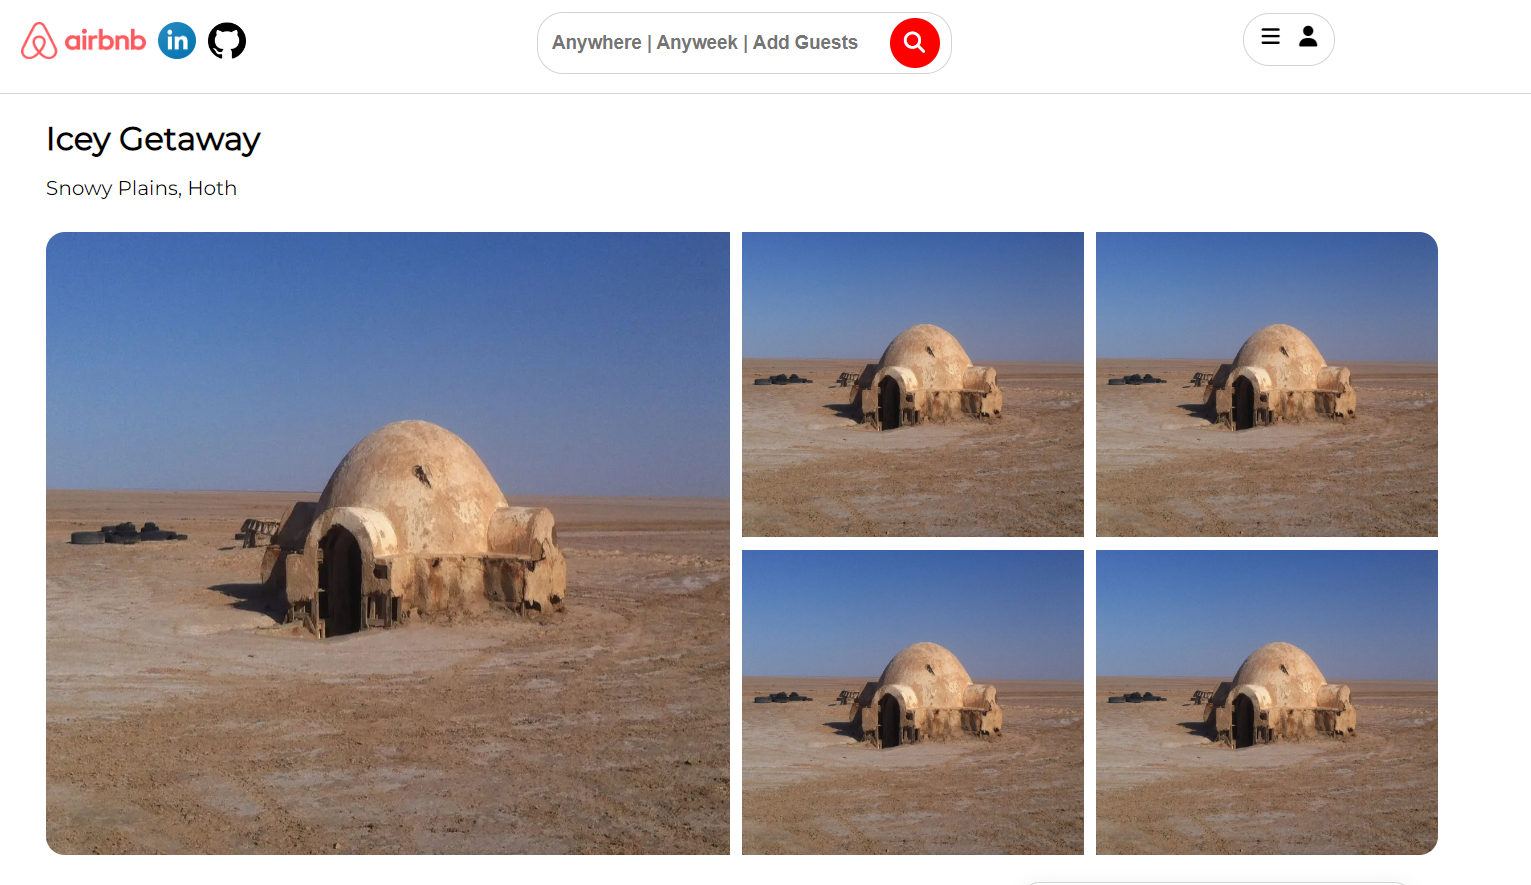
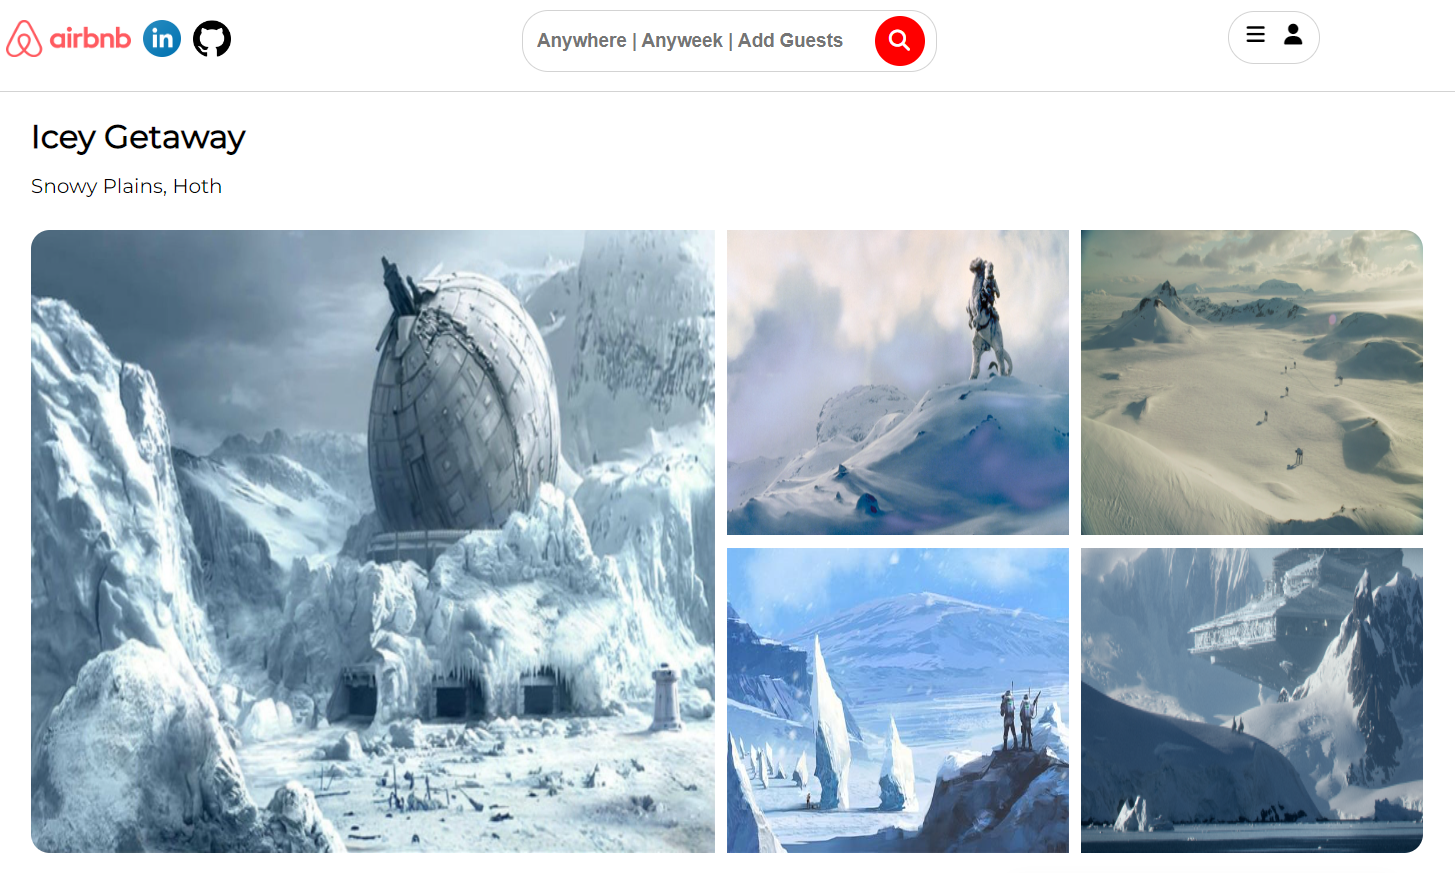
enabled aws photos for search

diff --git a/frontend/src/store/components/SearchShowPage/SearchShowPage.js b/frontend/src/store/components/SearchShowPage/SearchShowPage.js
@@ -39,8 +39,8 @@ const Search = () => {
                     <a href={`/listings/${ele.id}`}>
                         {/* <div id='listing-card' onClick={routeChange}> */}
                         <div id='listing-card'>
-                            {/* <img id='listing-profile-photo'src={ele?.photoUrls?.[0]} alt='listing'/> */}
-                            <img id='listing-profile-photo'src={testPhoto} alt='listing'/>
+                            <img id='listing-profile-photo'src={ele?.photoUrls?.[0]} alt='listing'/>
+                            {/* <img id='listing-profile-photo'src={testPhoto} alt='listing'/> */}
                             <div id='listing-city-country'>{ele.city}, {ele.country}</div>
                             <div>Hosted by a superhost!</div>
                             <div>Apr 15- Apr 18</div>
